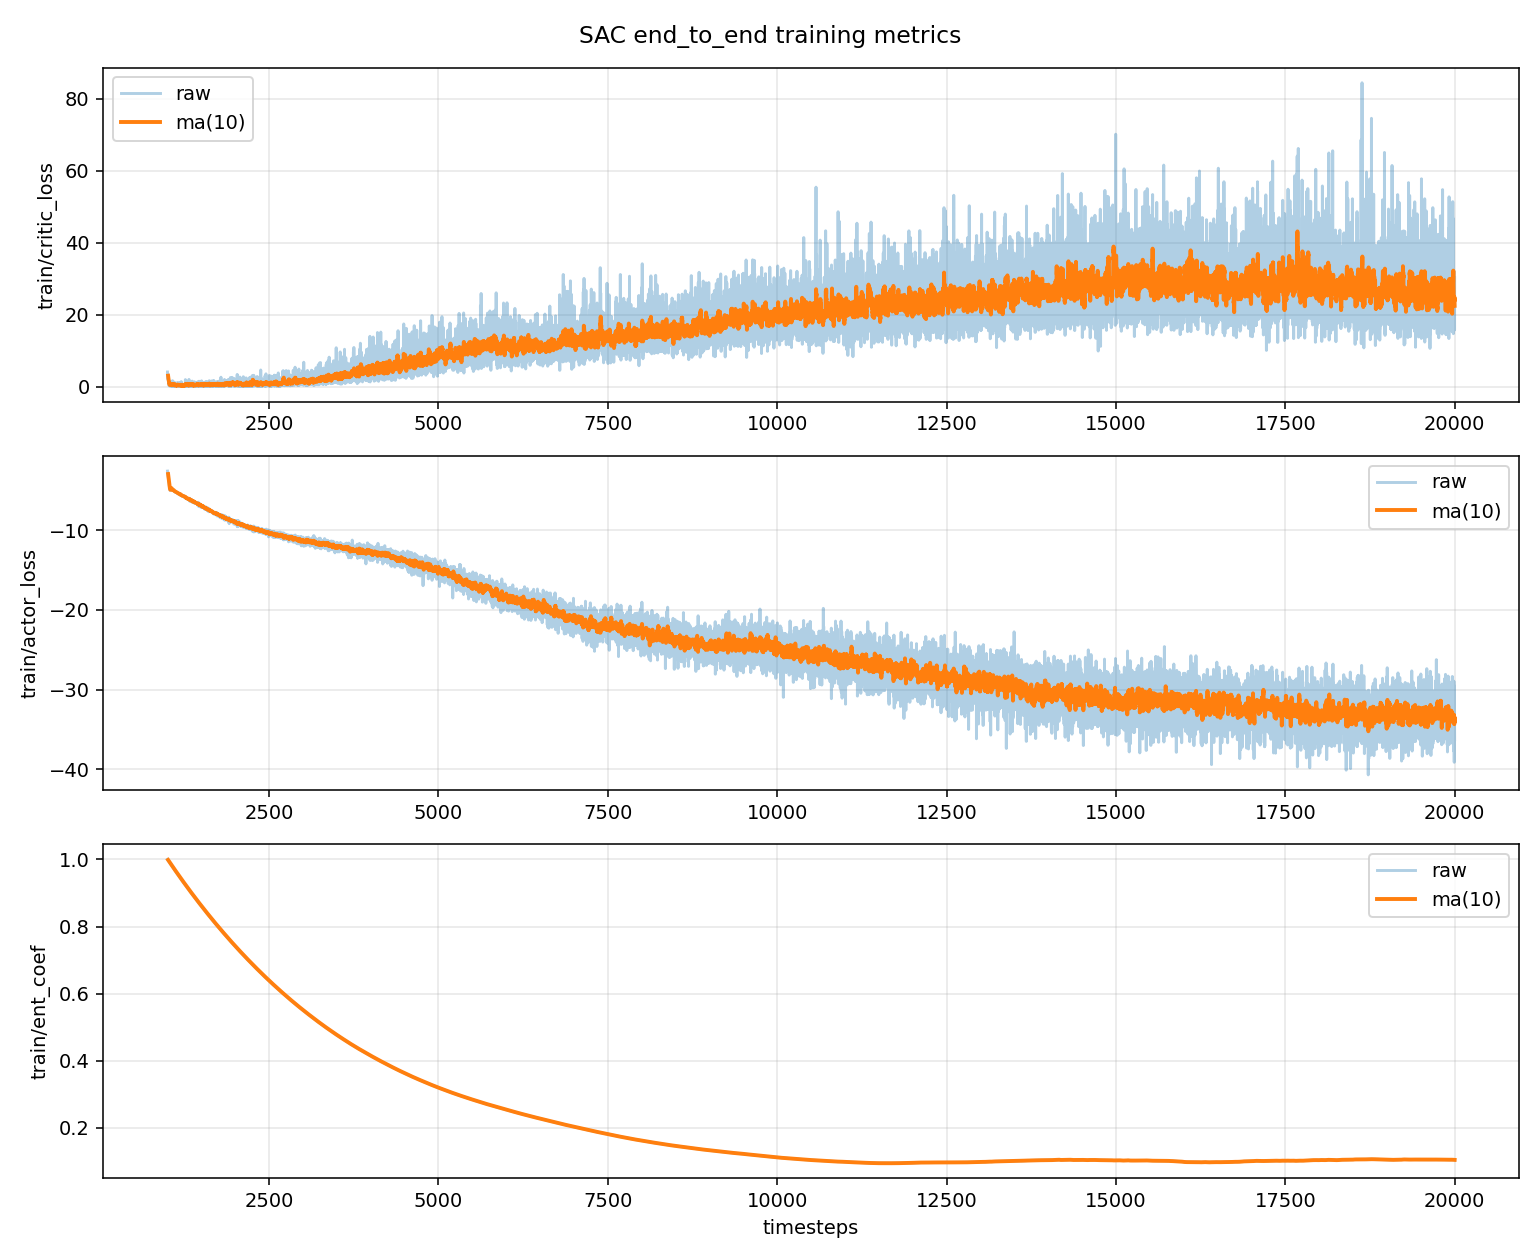
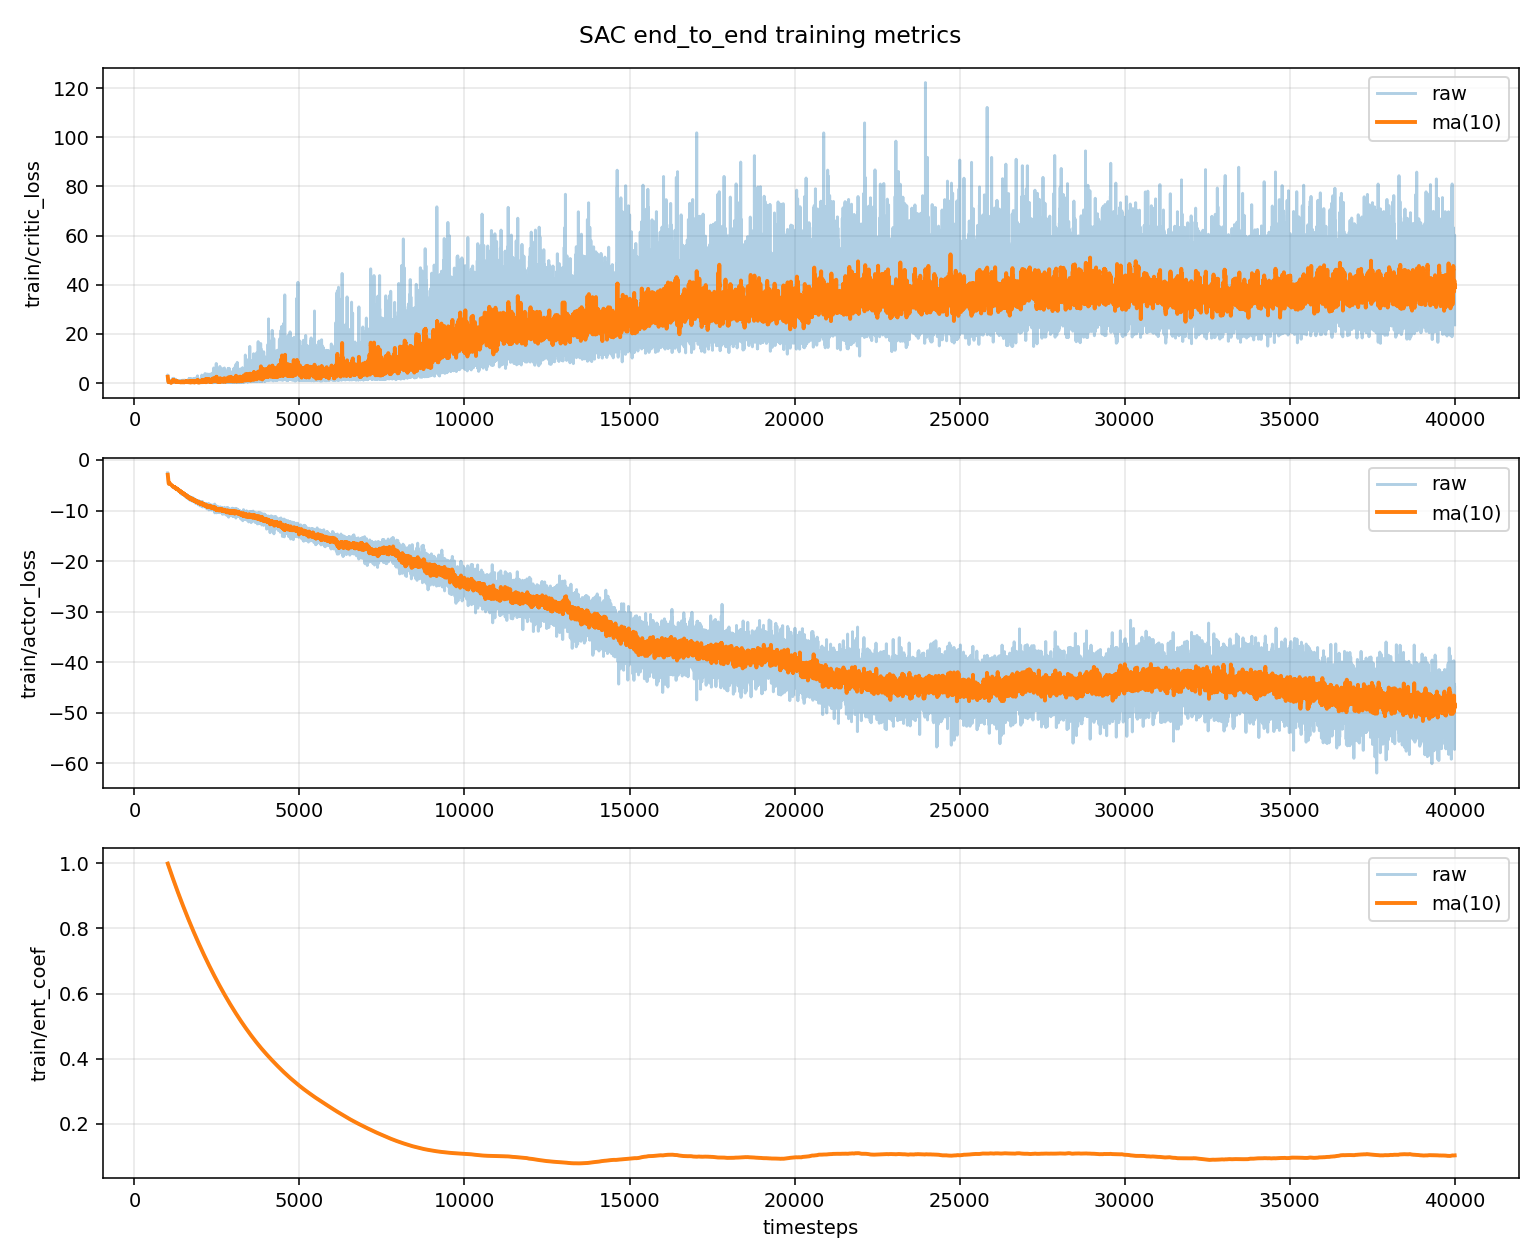
Stitch fix

diff --git a/whack_a_mole/envs/end_to_end.py b/whack_a_mole/envs/end_to_end.py
@@ -8,31 +8,65 @@ from whack_a_mole.envs.pickup import PickupEnv
 
 class EndToEndEnv(PickupEnv):
     pickup_goal_tracks_handle = False
+    hit_bonus = 10.0
+    strike_speed_threshold = 0.2
+    min_downward_velocity = 0.08
+    downward_alignment_threshold = 0.65
+    hit_radius = 0.08
+    strike_ready_radius = 0.10
+    strike_height_tolerance = 0.08
+    aim_height = 0.12
+    drop_penalty = 5.0
+    target_hold_aperture = 0.01
+
+    def _in_hammer_use_phase(self) -> bool:
+        """Return whether hammer-use rewards/phase should be active."""
+        return bool(self.is_hammer_grasped() or self.is_hammer_lifted())
+
+    def _force_gripper_close_action(self, action) -> np.ndarray:
+        """Bias gripper action toward stable hold during hammer-use phase."""
+        action = np.asarray(action, dtype=np.float32).copy()
+        if action.shape[0] >= 4:
+            gripper_aperture = float(np.mean(self.get_gripper_state()[0]))
+            if gripper_aperture > self.target_hold_aperture + 0.002:
+                action[3] = min(float(action[3]), -0.4)
+            else:
+                action[3] = 0.0
+        return action
 
     def compute_dense_reward(self, achieved_goal, goal, info=None):
         pickup_reward = super().compute_dense_reward(achieved_goal, goal, info)
-        lifted = self.is_hammer_lifted()
-        if not lifted:
+        if not self._in_hammer_use_phase():
             return pickup_reward
 
         hammer_reward = HammerUseEnv.compute_dense_reward(self, achieved_goal, goal, info)
         return pickup_reward + hammer_reward
 
     def step(self, action):
+        was_in_hammer_use_phase = self._in_hammer_use_phase()
+        if was_in_hammer_use_phase:
+            action = self._force_gripper_close_action(action)
         obs, _, terminated, truncated, info = super().step(action)
         achieved = obs["achieved_goal"]
         goal = obs["desired_goal"]
         velocity = self.get_hammer_tip_velocity()
         is_hit, distance, horizontal_distance, height_error, speed, downward_alignment = self.is_valid_strike(achieved, goal)
         reward = float(self.compute_dense_reward(achieved, goal, {"hammer_tip_velocity_z": float(velocity[2])}))
-        if is_hit and self.is_hammer_lifted():
+        in_hammer_use_phase = self._in_hammer_use_phase()
+        dropped_hammer = bool(was_in_hammer_use_phase and not in_hammer_use_phase)
+        if dropped_hammer:
+            reward -= self.drop_penalty
+        if is_hit and in_hammer_use_phase:
             reward += self.hit_bonus
             self.goal = self._sample_goal()
             self._move_goal_marker()
             obs["desired_goal"] = self.goal.copy()
 
-        info["is_success"] = bool(is_hit and self.is_hammer_lifted())
-        info["phase"] = "hammer_use" if self.is_hammer_lifted() else "pickup"
+        info["is_success"] = bool(is_hit and in_hammer_use_phase)
+        info["phase"] = "hammer_use" if in_hammer_use_phase else "pickup"
+        info["strike_valid"] = bool(is_hit and in_hammer_use_phase)
+        info["hammer_dropped"] = dropped_hammer
+        info["drop_penalty"] = float(-self.drop_penalty if dropped_hammer else 0.0)
         info["hammer_tip_distance"] = float(distance)
         info["hammer_tip_horizontal_distance"] = float(horizontal_distance)
         info["hammer_tip_height_error"] = float(height_error)

diff --git a/whack_a_mole/envs/pickup.py b/whack_a_mole/envs/pickup.py
@@ -27,7 +27,7 @@ class PickupEnv(BaseWhackEnv):
     close_miss_penalty = 0.6
     max_aperture = 0.05
     handle_reach_bonus = 20.0
-    pickup_goal_tracks_handle = True
+    pickup_goal_tracks_handle = False
     assist_grasp_closure = False
     early_close_action_penalty = 3.0
     early_closed_penalty = 8.0
@@ -66,6 +66,12 @@ class PickupEnv(BaseWhackEnv):
         "close": 15.0,
         "reach": 30.0,
     }
+
+    pickup_aim_height = 0.12
+    pickup_ready_radius = 0.05
+    pickup_height_tolerance = 0.03
+
+    pickup_hover_height = 0.30
 
     def __init__(self, reward_type: str = "dense", render_mode: str | None = "human", **kwargs):
         """Initialize pickup environment with free hammer and active gripper.
@@ -288,20 +294,24 @@ class PickupEnv(BaseWhackEnv):
 
         horizontal_distance = float(self.check_horizontal_distance(grip_pos, handle_pos))
         vertical_offset = float(grip_pos[2] - handle_pos[2])
-        aim_height_error = abs(vertical_offset - self.aim_height)
-        near_for_grasp = horizontal_distance < self.strike_ready_radius
+        near_for_grasp = horizontal_distance < self.pickup_ready_radius
 
         reward = -self.step_penalty - 5.0 * horizontal_distance
         if near_for_grasp:
+            aim_height_error = abs(vertical_offset - self.pickup_aim_height)
             reward -= 2.0 * aim_height_error
+        # change : require hover to enforce approach from above
+        else:
+            hover_height_error = abs(vertical_offset - self.pickup_hover_height)
+            reward -= 2.0 * hover_height_error
 
         gripper_qpos, _ = self.get_gripper_state()
         gripper_aperture = float(np.mean(gripper_qpos))
         grip_engagement = float(np.clip(1.0 - (gripper_aperture / self.max_aperture), 0.0, 1.0))
 
         if info is not None:
-            hovering_handle = near_for_grasp and (abs(vertical_offset) < self.strike_height_tolerance)
-            if hovering_handle:
+            aimed_handle = near_for_grasp and (abs(vertical_offset) < self.pickup_height_tolerance)
+            if aimed_handle:
                 reward += 3.0 * grip_engagement
 
         grasped = self.is_hammer_grasped()

diff --git a/whack_a_mole/envs/base.py b/whack_a_mole/envs/base.py
@@ -15,24 +15,8 @@ class BaseWhackEnv(MujocoFetchEnv):
     end-to-end task variants.
 
     Attributes:
-        hit_bonus: Bonus reward added after valid strikes.
-        strike_speed_threshold: Minimum hammer-tip speed for a valid strike.
-        min_downward_velocity: Minimum downward z-velocity for a valid strike.
-        downward_alignment_threshold: Minimum directional alignment with down axis.
-        hit_radius: Horizontal distance threshold for target contact.
-        strike_ready_radius: Radius used for strike-ready shaping.
-        strike_height_tolerance: Allowed z-height error when striking.
-        aim_height: Preferred vertical offset above the mole before striking.
         step_penalty: Per-step shaping penalty.
     """
-    hit_bonus = 10.0
-    strike_speed_threshold = 0.2
-    min_downward_velocity = 0.08
-    downward_alignment_threshold = 0.65
-    hit_radius = 0.08
-    strike_ready_radius = 0.10
-    strike_height_tolerance = 0.08
-    aim_height = 0.12
     step_penalty = 0.05
     # Keep hammer horizontal and yaw it so the handle faces the robot while
     # the head points away.

diff --git a/whack_a_mole/actors/stitched.py b/whack_a_mole/actors/stitched.py
@@ -15,7 +15,7 @@ class StitchedPPOActor(Actor):
         lift_threshold: Distance threshold used by the switch heuristic.
     """
 
-    def __init__(self, pickup_actor, hammer_use_actor, lift_threshold: float = 0.5):
+    def __init__(self, pickup_actor, hammer_use_actor, lift_threshold: float = 0.08):
         """Initialize stitched actor.
 
         Args:
@@ -41,10 +41,12 @@ class StitchedPPOActor(Actor):
         if not isinstance(obs, dict):
             return False
         features = np.asarray(obs.get("observation", []), dtype=np.float32)
-        if features.shape[0] < 25:
+        if features.shape[0] < 38:
             return False
         held_flag = float(features[-1])
-        return bool(held_flag > 0.5)
+        grip_to_handle = features[20:23]
+        grip_to_handle_dist = float(np.linalg.norm(grip_to_handle))
+        return bool(held_flag > 0.5 and grip_to_handle_dist < self.lift_threshold)
 
     def predict(self, obs, deterministic: bool = True):
         """Predict an action from the active sub-policy.

diff --git a/whack_a_mole/envs/hammer_use.py b/whack_a_mole/envs/hammer_use.py
@@ -97,6 +97,9 @@ class HammerUseEnv(PickupEnv):
         else:
             raise RuntimeError("HammerUseEnv reset failed to produce sane pre-grasp state")
 
+        self.goal = self._sample_goal()
+        self._move_goal_marker()
+
         obs = self._get_obs()
         obs["desired_goal"] = self.goal.copy()
         obs["achieved_goal"] = self.get_hammer_tip_position()

diff --git a/whack_a_mole/envs/wrappers.py b/whack_a_mole/envs/wrappers.py
@@ -133,7 +133,7 @@ def hammer_use_obs_from_full_obs(obs: dict) -> dict:
     hammer_pos = full[8:11]
     hammer_vel = full[11:14]
     goal_pos = full[14:17]
-    held_flag = np.array([full[24]], dtype=np.float32)
+    held_flag = np.array([full[-1]], dtype=np.float32)
     gripper_aperture = np.array([float(np.mean(gripper_state))], dtype=np.float32)
     rel_pos = goal_pos - hammer_pos
     low_dim = np.concatenate(